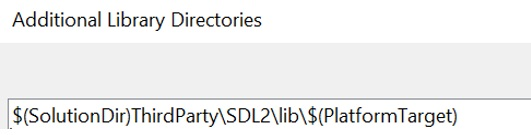
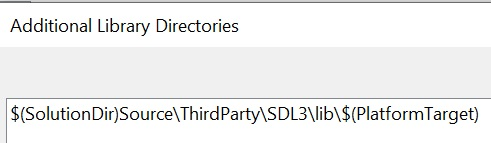
update sdl3 install

Changed region(s): [[0.0, 0.6815, 1.0, 0.9778], [0.0, 0.0593, 0.4888, 0.2667], [0.0, 0.0, 1.0, 0.0296]]

diff --git a/_posts/GameDev-CPP/2024-06-27-gamedev-cpp-sdl.md b/_posts/GameDev-CPP/2024-06-27-gamedev-cpp-sdl.md
@@ -70,10 +70,10 @@ $(SolutionDir)Source\ThirdParty\SDL3\include
 _The SDL library setup only applies to the **Engine** project._
 
 + Add the SDL library directory in **Project Properties** (**Librarian > General** or **Linker > Input**):
-  + ```$(SolutionDir)ThirdParty\SDL3\lib\$(PlatformTarget)```
+  + ```$(SolutionDir)Source\ThirdParty\SDL3\lib\$(PlatformTarget)```
 
 ```
-$(SolutionDir)ThirdParty\SDL3\lib\$(PlatformTarget)
+$(SolutionDir)Source\ThirdParty\SDL3\lib\$(PlatformTarget)
 ```
 <div align="left">
 <img src="sdl-library.jpg" alt="Library" width="70%"/>
